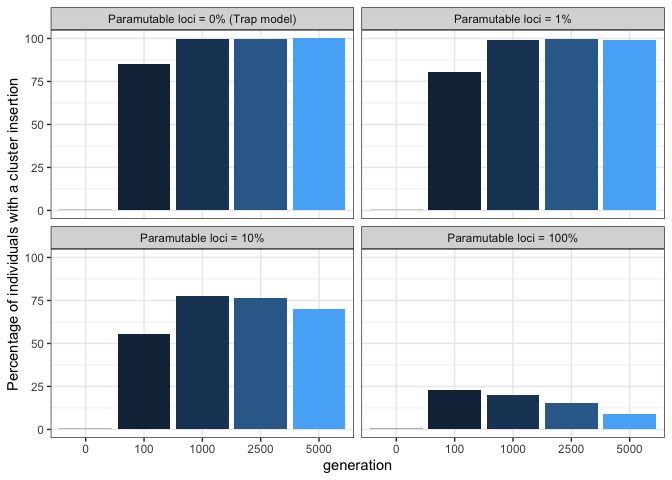
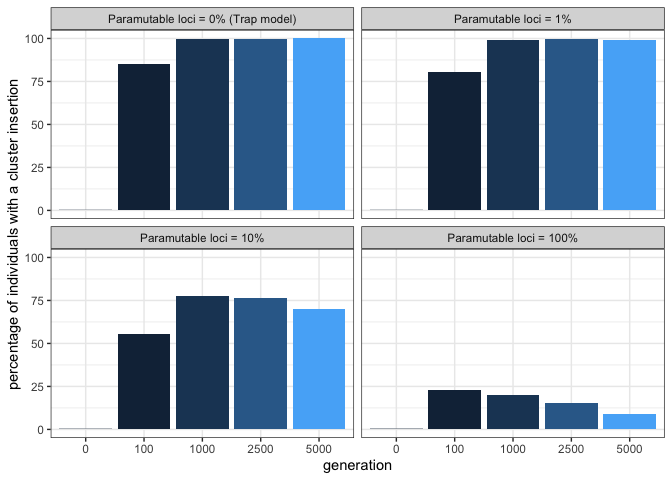
Minor update

Changed region(s): [[0.0, 0.1562, 0.0312, 0.8125]]

diff --git a/Simulation/2022_08_09_Simulation_1_Paramutations.md b/Simulation/2022_08_09_Simulation_1_Paramutations.md
@@ -98,7 +98,7 @@ df2<-subset(clus_ins, gen == 0 | gen == 100 | gen == 1000 | gen == 2500 | gen ==
 
 g2 <- ggplot(df2, aes(x=as.character(gen), y=percentcli)) + 
       geom_bar(stat = "identity", aes(fill=gen)) +
-      ylab("Percentage of individuals with a cluster insertion")+
+      ylab("percentage of individuals with a cluster insertion")+
       xlab("generation")+
       theme(legend.position = "none")+
       facet_wrap(~sampleid, labeller = labeller(sampleid = 
